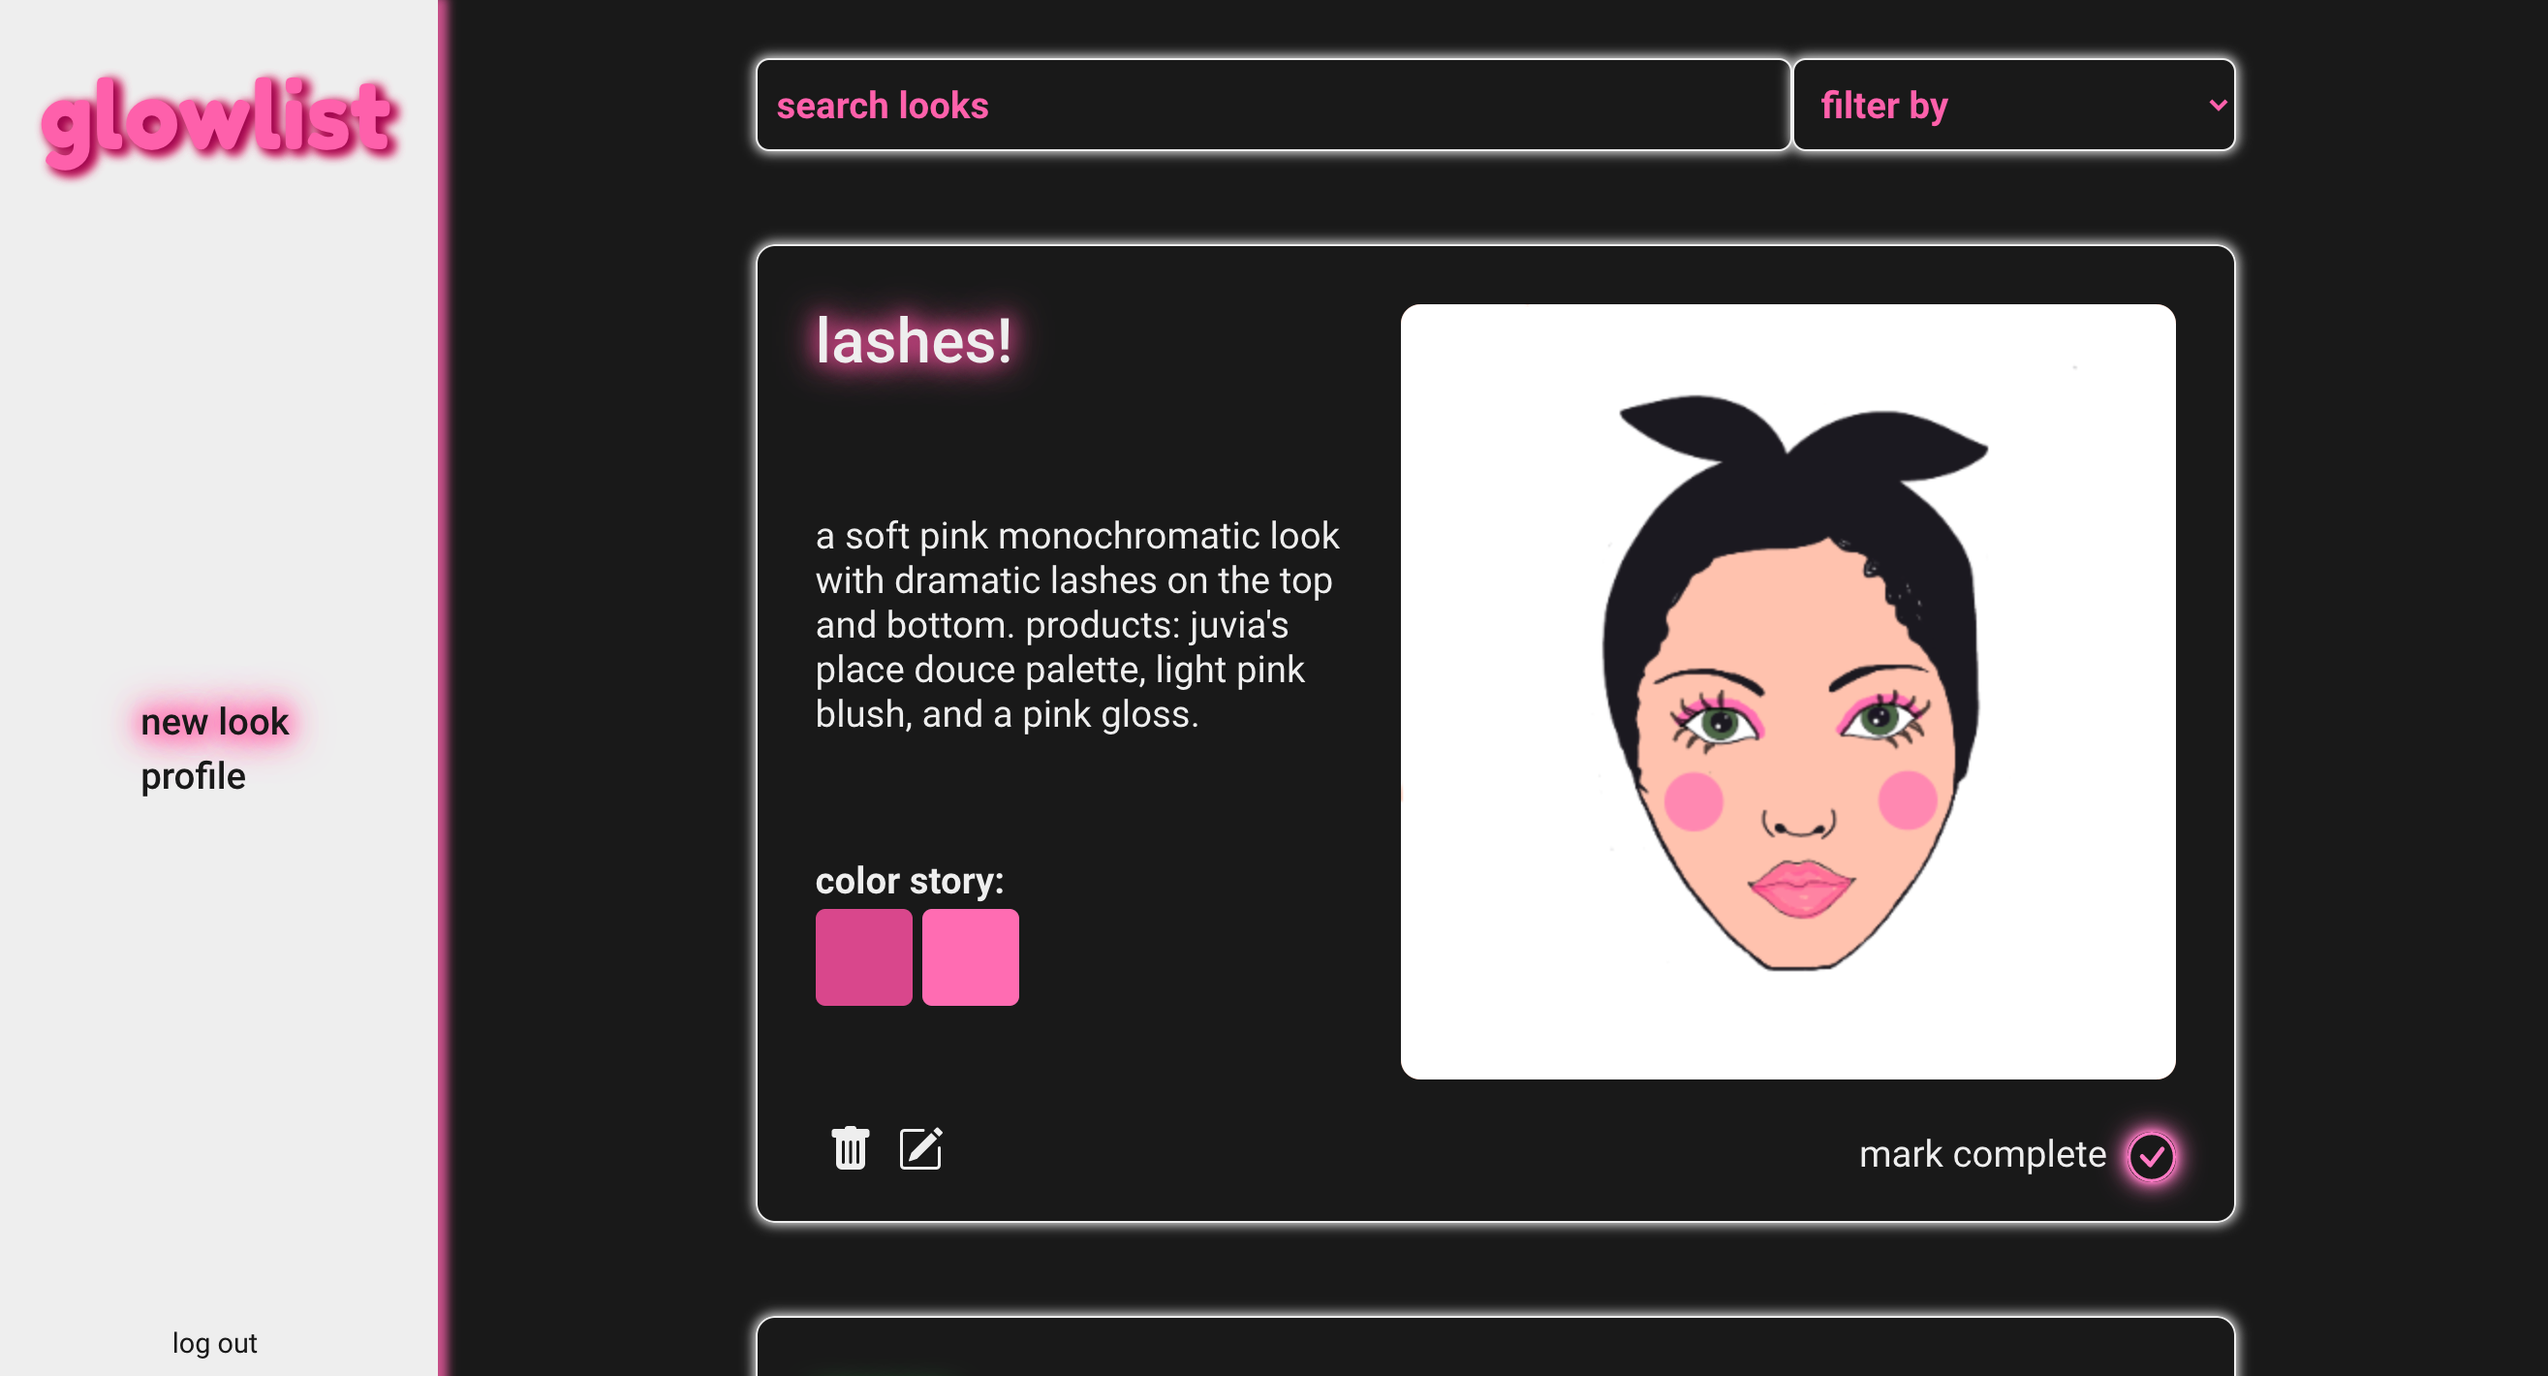
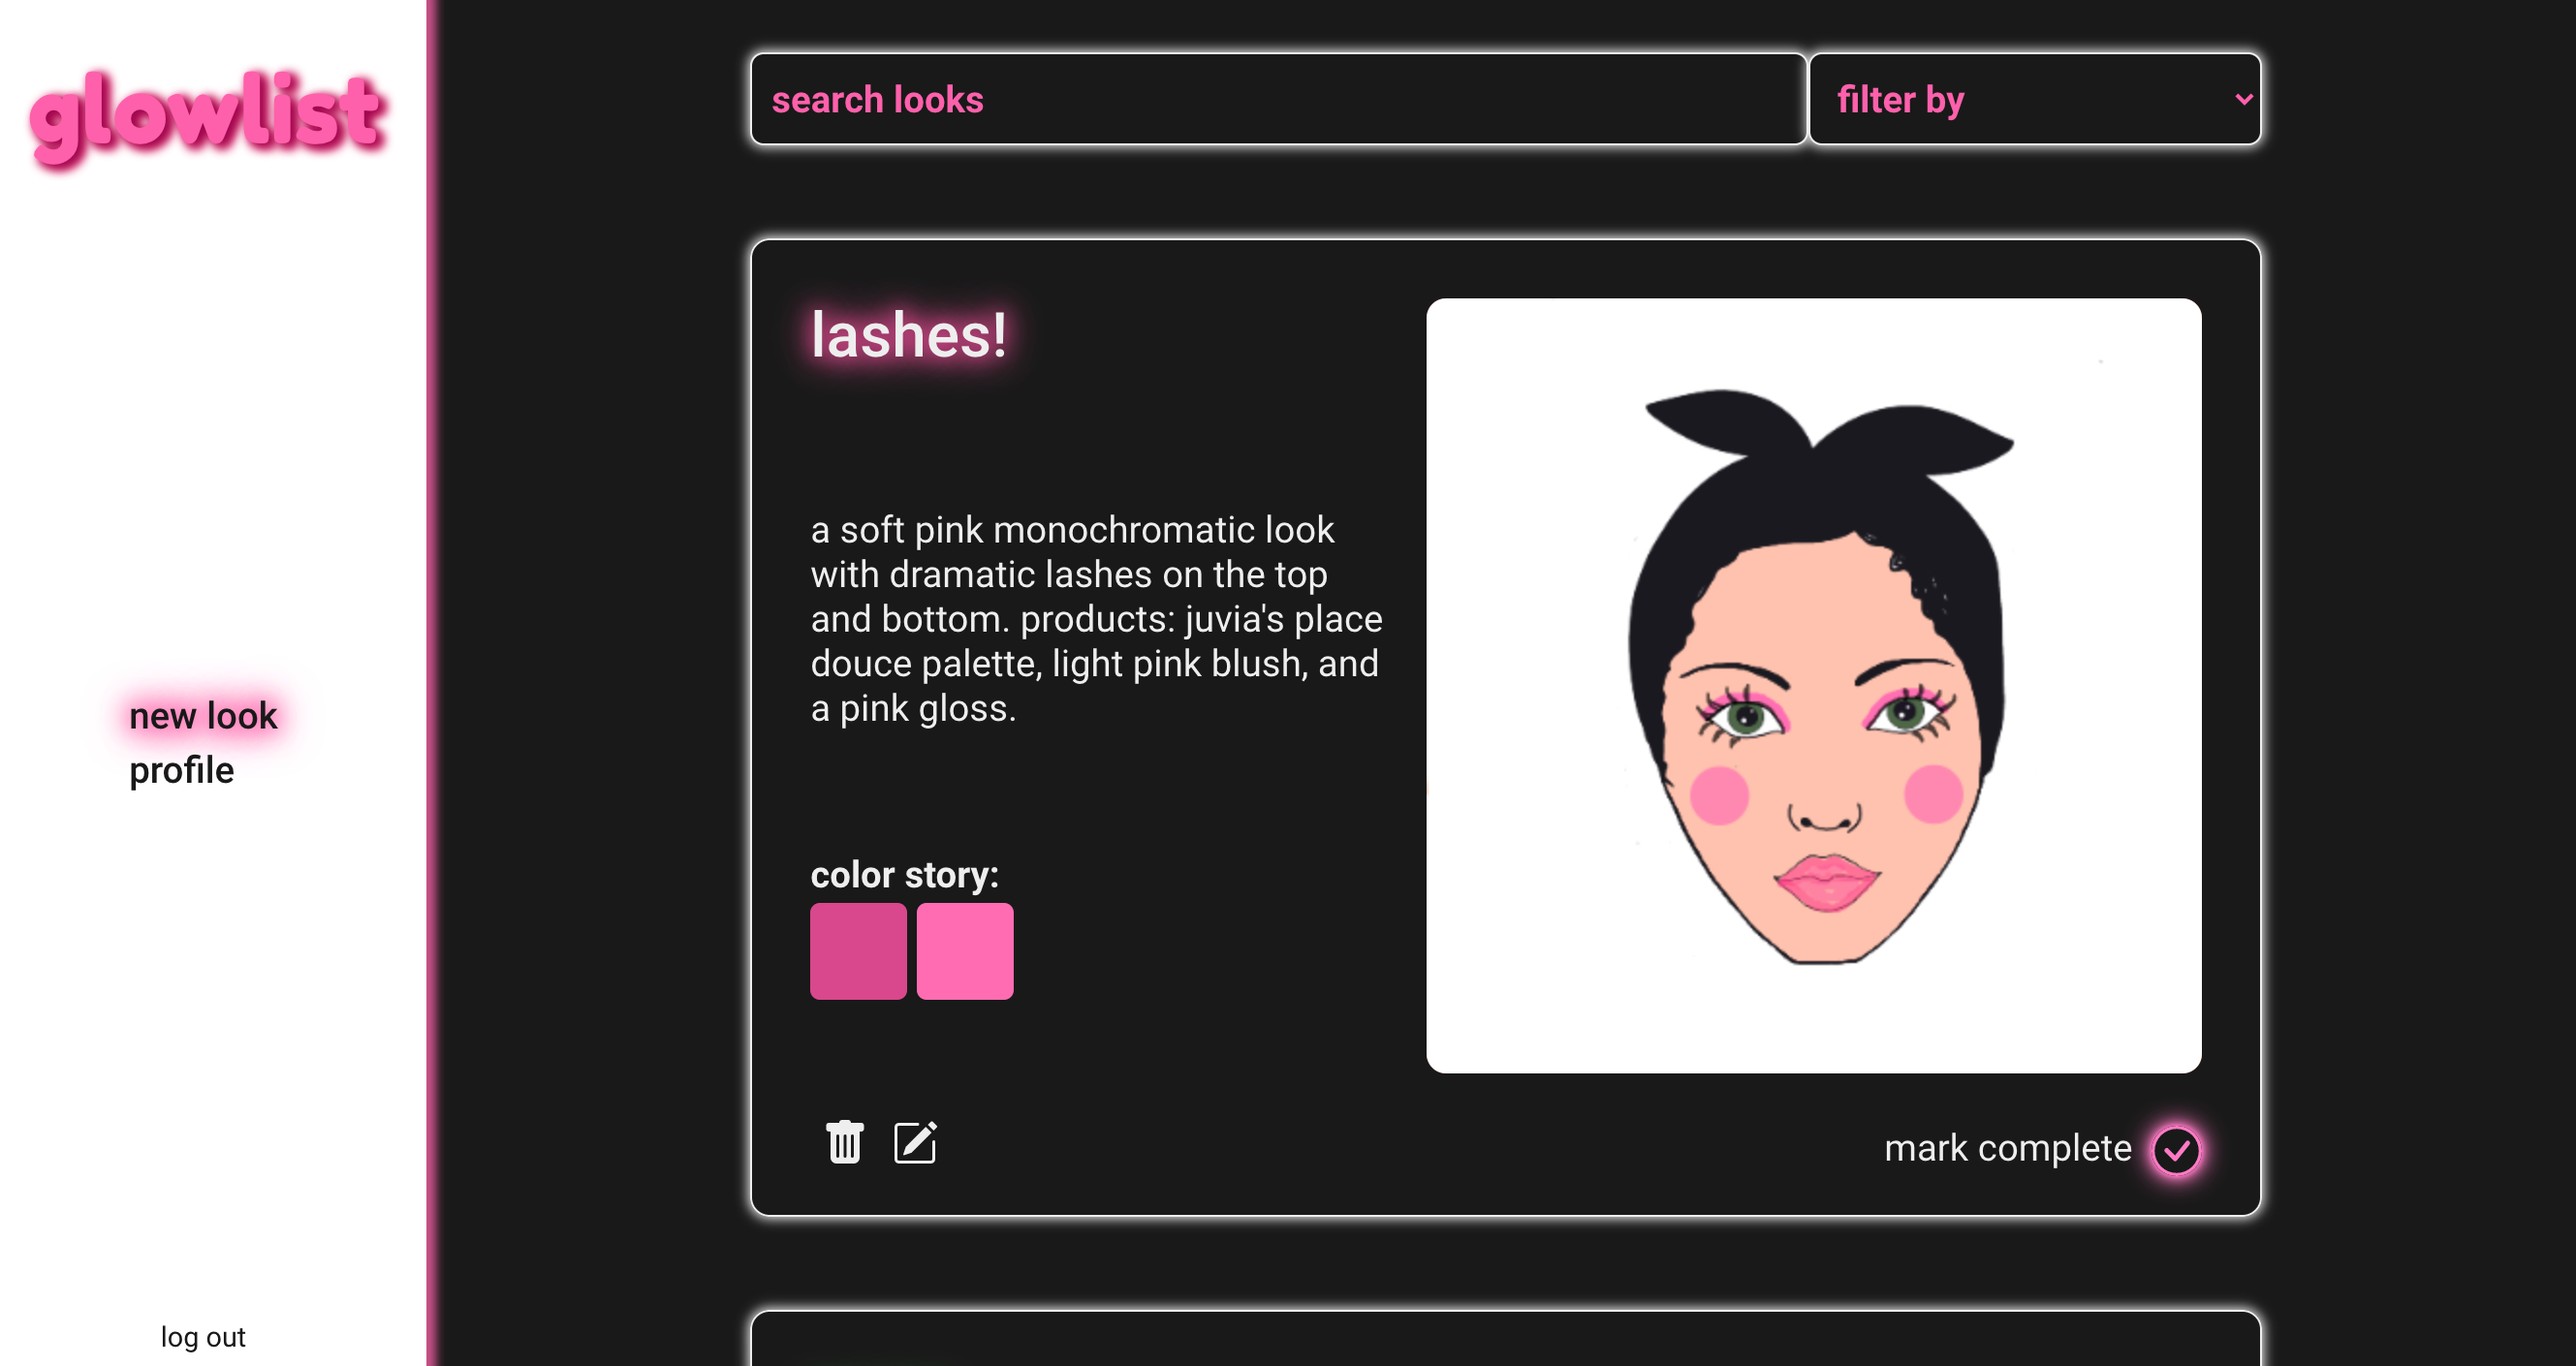
update readme

diff --git a/src/styles/main.scss b/src/styles/main.scss
@@ -204,7 +204,7 @@ nav {
     overflow-x: hidden;
     padding: 25px 0;
     margin: 0;
-    background-color: #eeeeee;
+    background-color: white;
     box-shadow: 5px 0px 5px 0px rgba(255, 92, 174, 0.781);
 }
 

diff --git a/README.md b/README.md
@@ -17,8 +17,8 @@ Glowlist allows a user to:
 
 
 ### Built With ###
-* **[Frontend]:**(https://github.com/aleksarad/glowlist-frontend) React, React Bootstrap, React Canvas Draw, Sass, React Color
-* **[Backend]:**(https://github.com/aleksarad/glowlist-backend) Ruby On Rails, Postgres DB
+* [Frontend](https://github.com/aleksarad/glowlist-frontend): React, React Bootstrap, React Canvas Draw, Sass, React Color
+* [Backend](https://github.com/aleksarad/glowlist-backend): Ruby On Rails, Postgres DB
 
 ### Features ###
 * JWT Auth
